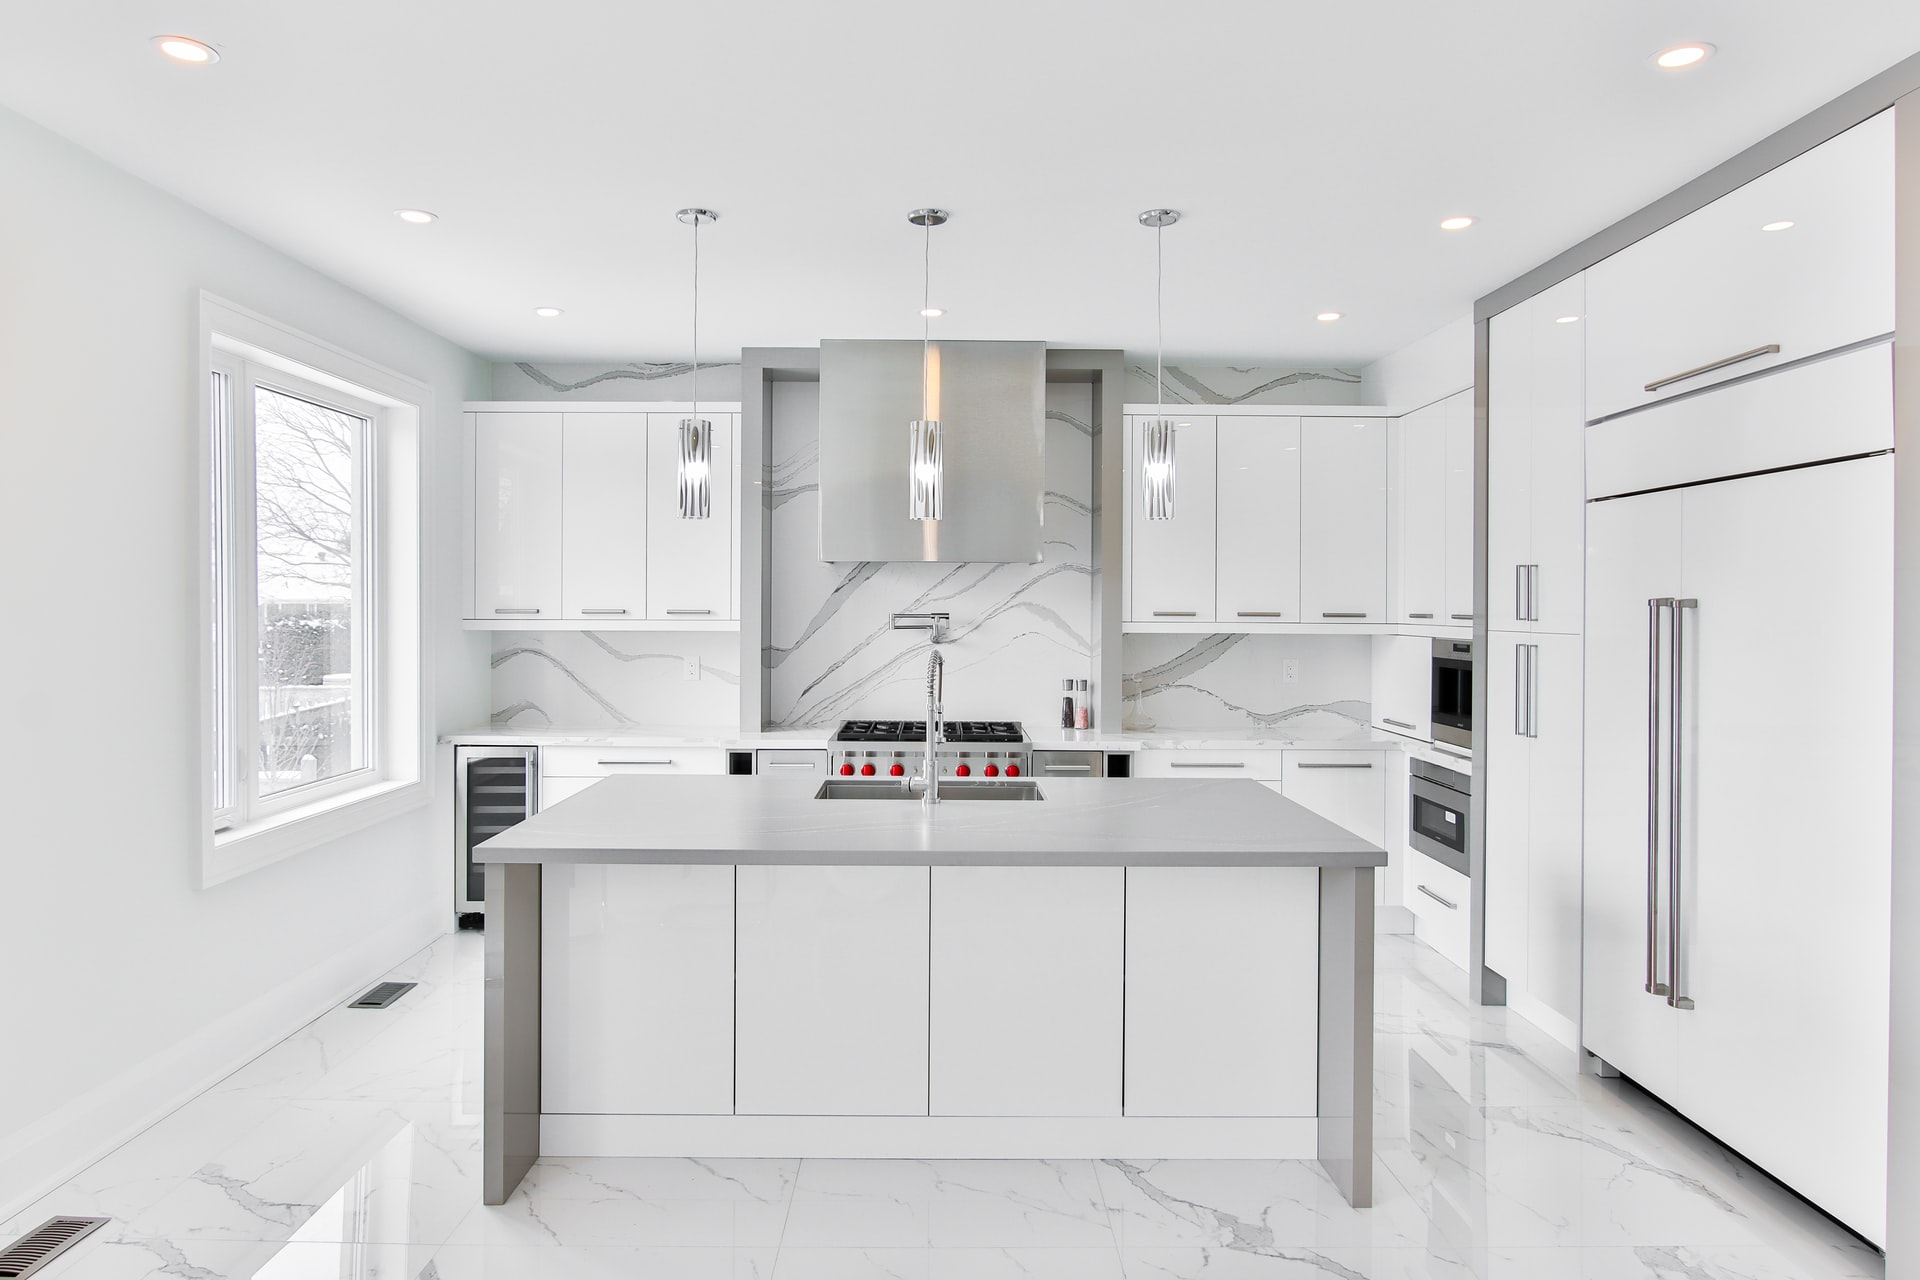
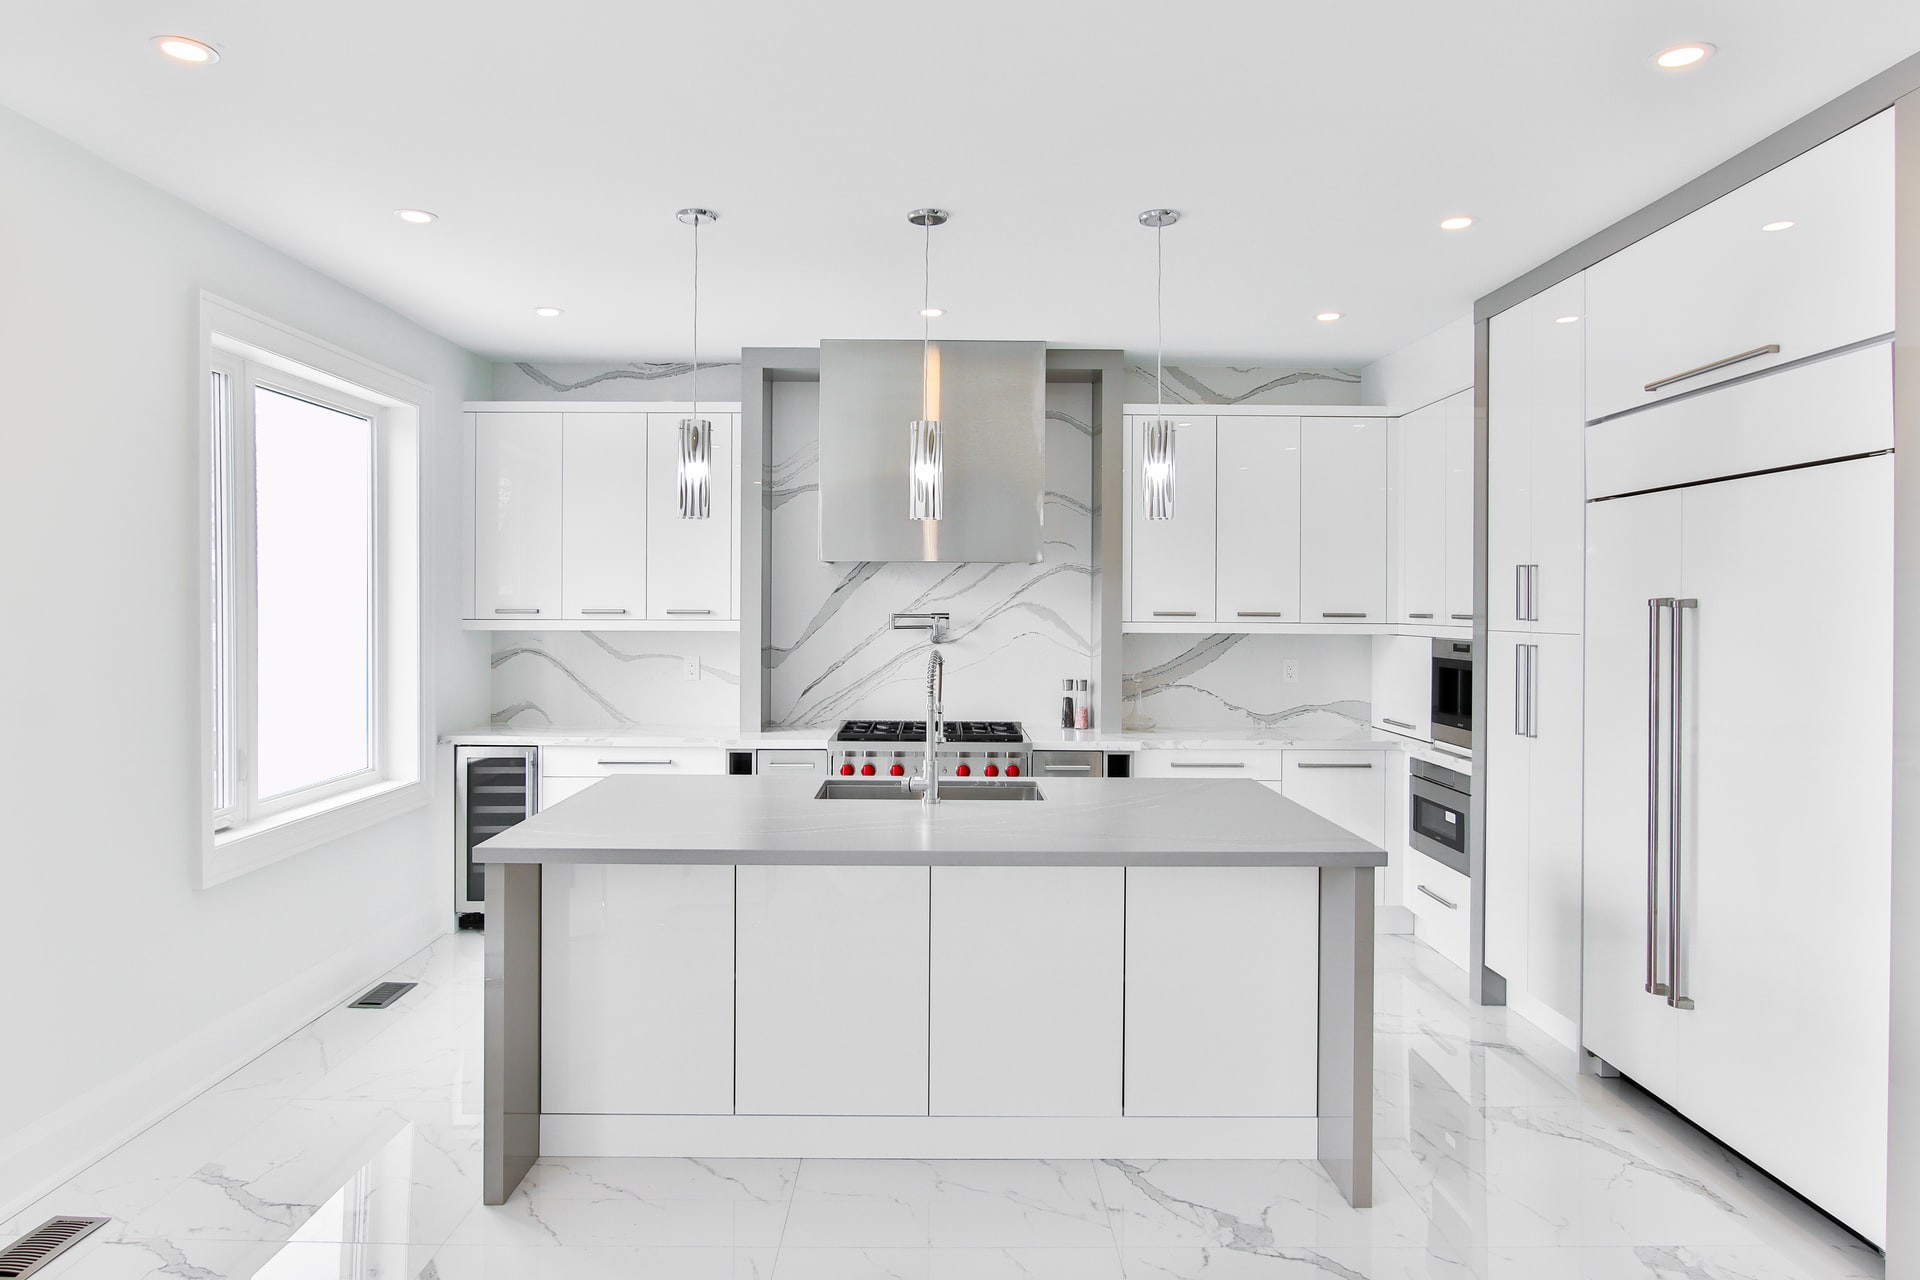
Crimescene updated with pics

Changed region(s): [[0.125, 0.4688, 0.1875, 0.625], [0.125, 0.3125, 0.1875, 0.4375]]

diff --git a/totb/src/pages/CrimeScene.js b/totb/src/pages/CrimeScene.js
@@ -5,7 +5,7 @@ import { TextButton, TextButtonContainer } from '../generalComponents/SpeechText
 import { CrimeSceneData } from '../data/lessonData'
 import Janitor from '../images/janitor.png'
 import kitchen from '../images/kitchen.jpg'
-import windowView from '../images/windowView.jpg'
+import windowView from '../images/windowView2.jpg'
 import { clientData } from '../data/lessonData'
 import PageContainer from '../containers/PageContainer'
 import ImageContainer from '../containers/ImageContainer'
@@ -35,10 +35,13 @@ function CrimeScene() {
                 </TextButtonContainer>
             </SpeechBubbleLeft>
             <PageContainer>
-                <ImageContainer image={kitchen}/>
+                <ImageContainer image={bubbleTextToDisplay === 1 || bubbleTextToDisplay === 2 ? kitchen : windowView}/>
+            
+            {bubbleTextToDisplay === 3 ?
             <NextPageButton destination="/officebase">
-                Go to office
-            </NextPageButton>
+            Go to office
+             </NextPageButton> 
+             : null}
             </PageContainer>
 
         </>

diff --git a/totb/src/data/lessonData.js b/totb/src/data/lessonData.js
@@ -502,8 +502,7 @@ export const CodeBoxData = {
 export const CrimeSceneData = {
     bubbleText1: [`This is the kitchen and this is the window he went through. As you can see, he can't have done it by accident.`],
     bubbleText2: [`He used to stand by the window smoking. I think someone probable came up behind him and pushed him out.`],
-    bubbleText3: [``],
-    bubbleText4: [``],
+    bubbleText3: [`Have a look out the window....that's an awfully long way down! Anyway, now you've seen where it all happened. `],
 }
 
 

diff --git a/totb/src/containers/ImageContainer.js b/totb/src/containers/ImageContainer.js
@@ -9,9 +9,12 @@ font-family:'Courier New', Courier, monospace;
 font-size: 1.5rem;
 margin: 1em;
 z-index: 100;
+background-color: #333;
 `
 const StyledImage = styled.img`
 max-width: 100%;
+height: 100%;
+min-height: 100%;
 `
 function ImageContainer(props){
     return (

diff --git a/totb/src/containers/PageContainer.js b/totb/src/containers/PageContainer.js
@@ -25,7 +25,7 @@ min-height: 100vh;
 
 
 @media(max-width:900px){
-    margin-top: 4em;
+    margin-top: 1em;
     width: 100%;
     min-height: unset;
     flex-direction: column;

diff --git a/totb/README.md b/totb/README.md
@@ -7,8 +7,6 @@ sort out context / local storage
 add make your guess
 credits footer???
 first page blurb, instructions etc
-crimescene page pics
-crimescene page button not centred
 codebox background
 check error on clicking correct convo option and getting "incorrect"
 create larger images of each trial
@@ -17,7 +15,8 @@ chey got something new with blackmail cash
 test out at end?
 artefact pictures small/big
 
-window view Photo by <a href="https://unsplash.com/@withluke?utm_source=unsplash&utm_medium=referral&utm_content=creditCopyText">Luke Stackpoole</a> on <a href="https://unsplash.com/s/photos/view-from-window?utm_source=unsplash&utm_medium=referral&utm_content=creditCopyText">Unsplash</a>
+window view Photo by <a href="https://unsplash.com/@jannerboy62?utm_source=unsplash&utm_medium=referral&utm_content=creditCopyText">Nick Fewings</a> on <a href="https://unsplash.com/s/photos/view-from-window?utm_source=unsplash&utm_medium=referral&utm_content=creditCopyText">Unsplash</a>
+  
   
 
 kitehcn Photo by <a href="https://unsplash.com/@sidekix?utm_source=unsplash&utm_medium=referral&utm_content=creditCopyText">Sidekix Media</a> on <a href="https://unsplash.com/s/photos/kitchen?utm_source=unsplash&utm_medium=referral&utm_content=creditCopyText">Unsplash</a>
